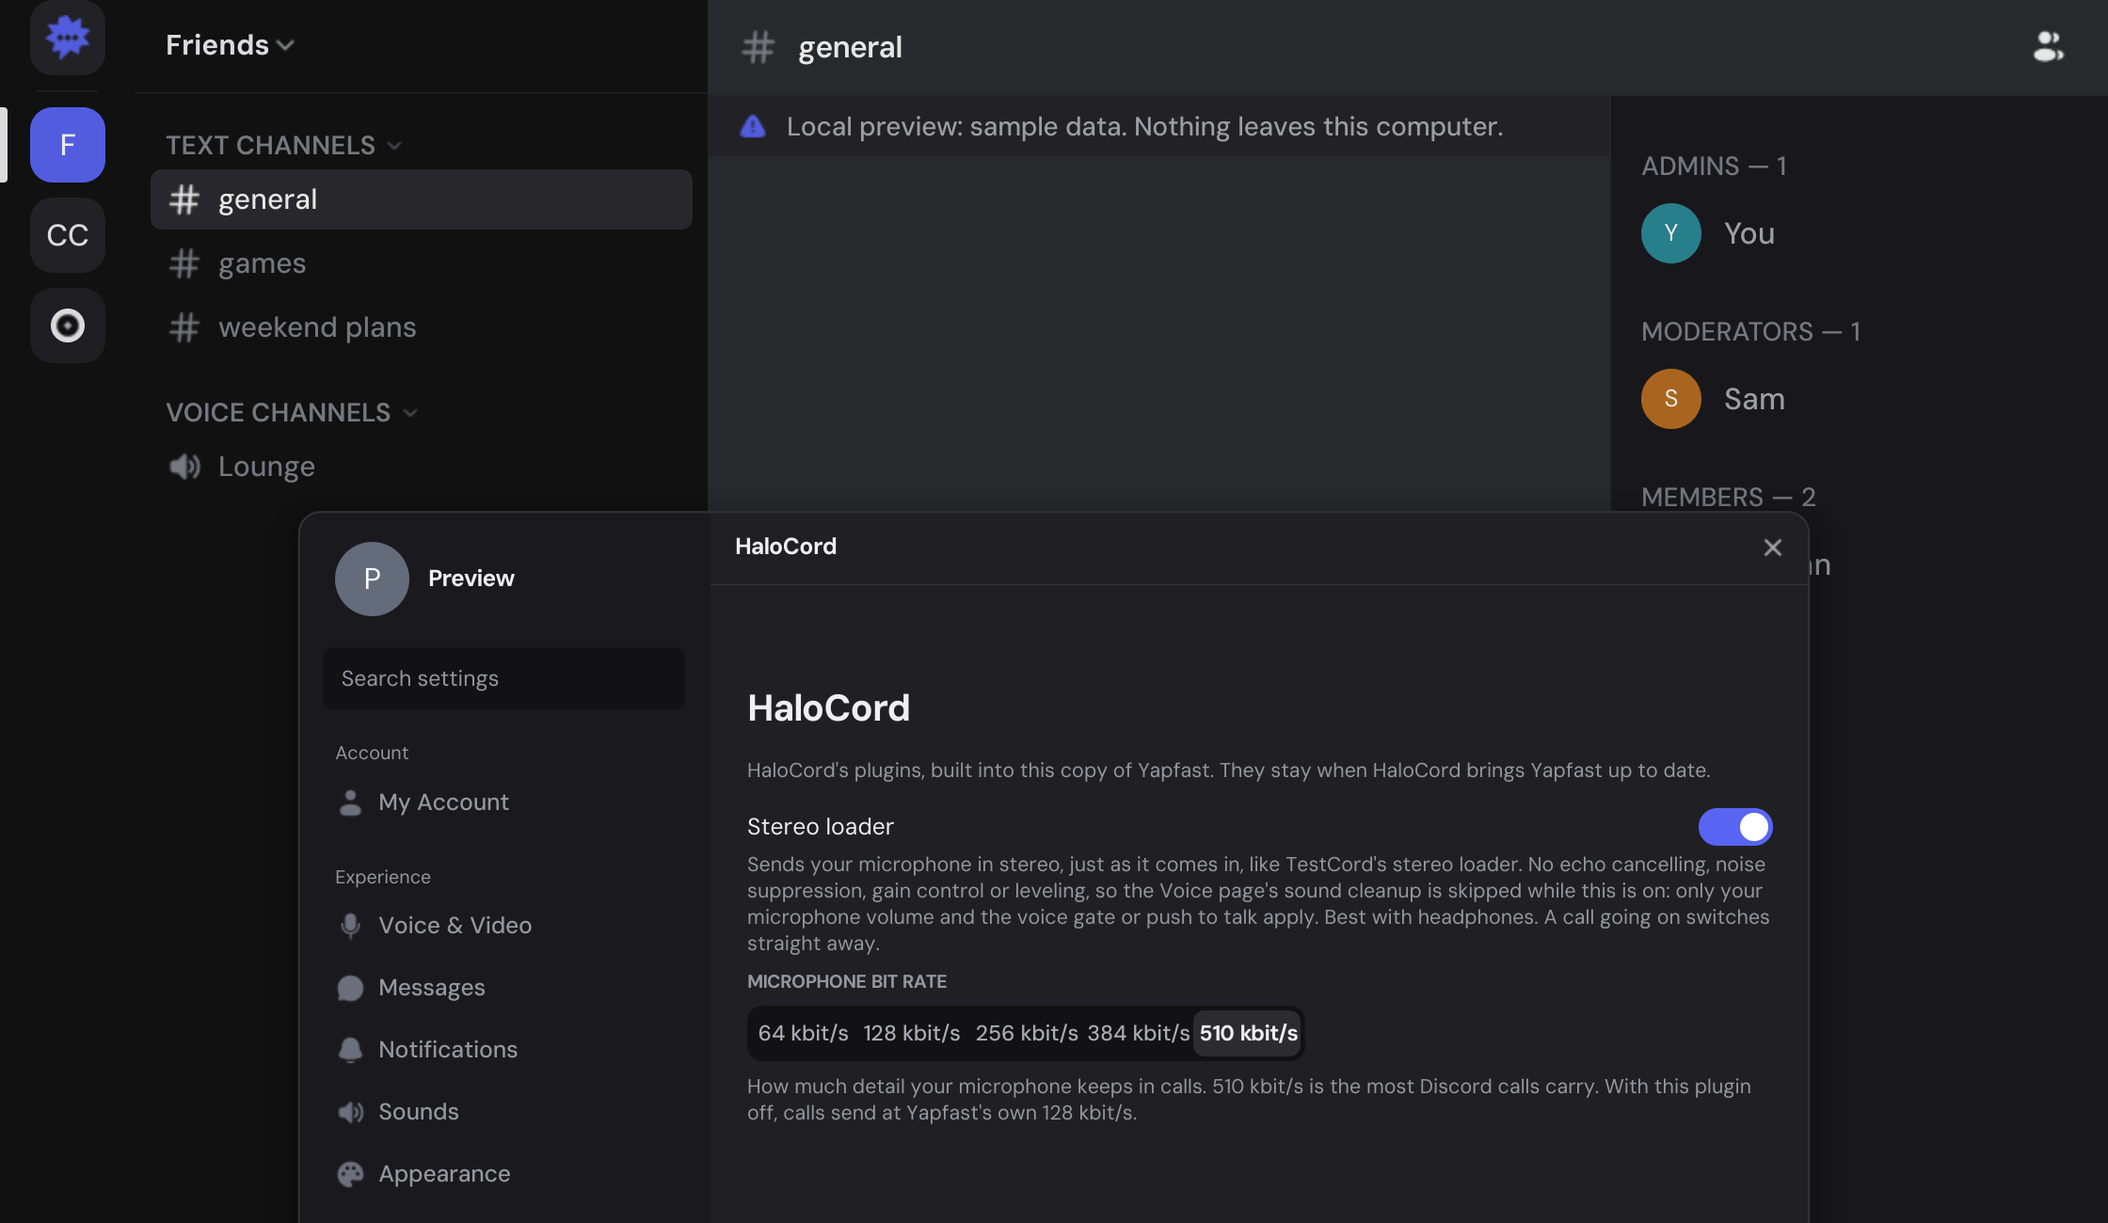
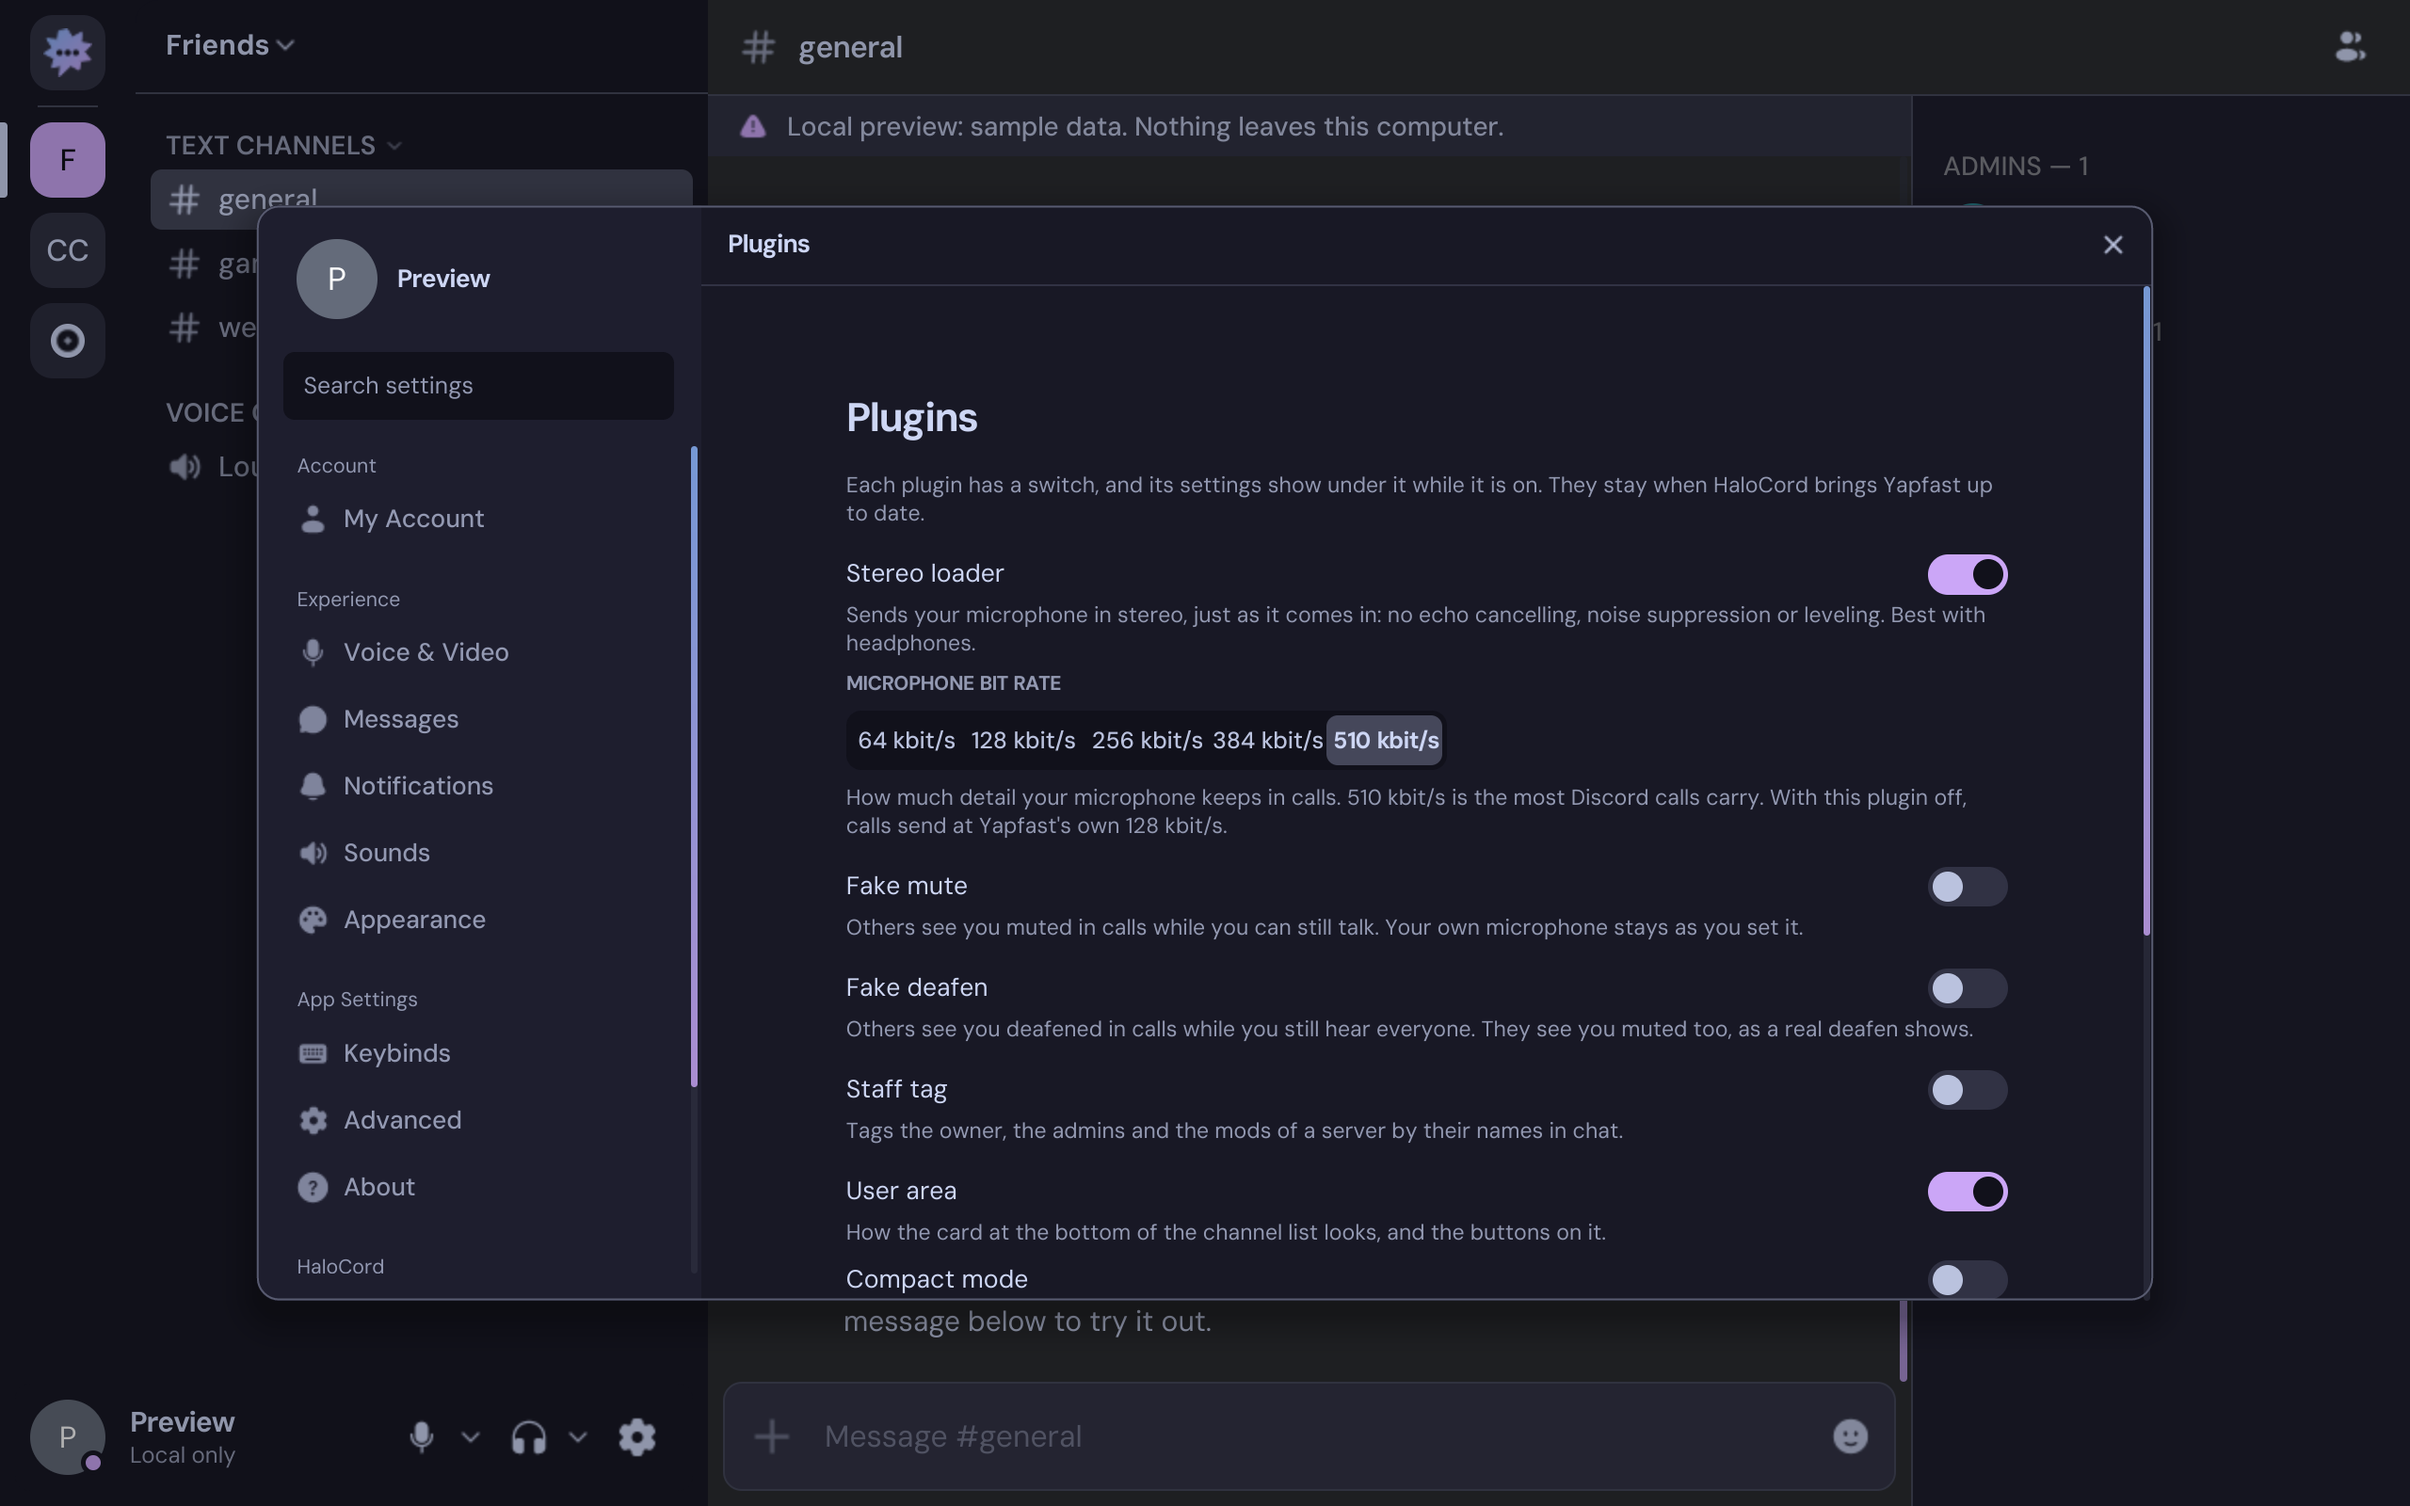
docs(halocord): README for the plugins, user area and MochaCord theme, new pictures

diff --git a/.github/README.md b/.github/README.md
@@ -1,12 +1,12 @@
 <div align="center">
 
-<img src="assets/halocord-page.png" alt="Yapfast settings with the HaloCord page open, showing the Stereo loader switch and the microphone bit rate picker" width="100%">
+<img src="assets/halocord-page.png" alt="Yapfast settings with the Plugins page open: the Stereo loader with its bit rate picker, fake mute, fake deafen, staff tag and the user area" width="100%">
 
 # HaloCord for Yapfast
 
 **HaloCord's voice plugins, built into Yapfast, the light Discord client written in Rust.**
 
-The next HaloCord: stereo microphone and 510 kbit/s calls, with its own settings page.
+The next HaloCord: stereo 510 kbit/s calls, fake mute and deafen, staff tags, a roomier user area and the MochaCord glass theme.
 
 <a href="https://github.com/DavidHiFi/HaloCord-Yapfast/releases/latest">
 <img src="https://img.shields.io/badge/%E2%AC%87%EF%B8%8F%20DOWNLOAD%20LATEST%20RELEASE-2EA043?style=for-the-badge&labelColor=161B22" alt="Download the latest release" height="42">
@@ -28,7 +28,7 @@ The next HaloCord: stereo microphone and 510 kbit/s calls, with its own settings
 2. Close Yapfast if it's open.
 3. Double-click `yapfast.exe`. The ZIP isn't code signed, so Windows SmartScreen may warn you. Choose **More info**, then **Run anyway**.
 4. New to Yapfast? Link your account with the QR code. Already use it? You stay logged in.
-5. Find **HaloCord** at the bottom of Settings.
+5. Find **Plugins** and **MochaCord** at the bottom of Settings.
 
 To build it yourself, see "Building from source" below.
 
@@ -40,15 +40,40 @@ To build it yourself, see "Building from source" below.
 - **Bit rate:** pick 64, 128, 256, 384 or 510 kbit/s. It changes live, mid-call.
 - **Off switch:** turn the plugin off and calls go back to Yapfast's own sound cleanup at 128 kbit/s.
 
+### Privacy
+
+- **Fake mute:** everyone in the call sees you muted while your microphone keeps working for you.
+- **Fake deafen:** everyone sees you deafened while you still hear the call.
+
+### Chat
+
+- **Staff tag:** owner, admin and mod tags next to names in chat, with an optional crown and role colour.
+
+### User area
+
+- **Compact mode:** a shorter user area that stays clear of the server list.
+- **Hide the arrows:** drops the little dropdown arrows beside mute and deafen.
+- **Extra buttons:** HaloCord's quick buttons, like fake mute and fake deafen, sit next to settings.
+
+### MochaCord theme
+
+<img src="assets/mochacord-page.png" alt="The MochaCord page in Yapfast settings: glass window, glass strength, blue to mauve accents, corner roundness and the font list" width="100%">
+
+- **Glass window:** Catppuccin Mocha over a frosted, blurred window, with a strength slider.
+- **Blue to mauve:** the accent and the scrollbars run from blue to mauve.
+- **Title bar room:** space above the home button for the native Windows title bar.
+- **Your font:** pick the font, weight and corner roundness. FiraCode Nerd Font Medium by default.
+- **New icon:** a riced app and home icon.
+
 ### Plugins
 
-- **HaloCord page:** its own section in Settings, one switch per plugin, with each plugin's settings under it.
+- **Plugins tab:** its own section in Settings, one switch per plugin, a search box, and each plugin's settings under it.
 - **Survives updates:** HaloCord's code lives in its own files, with small hooks into Yapfast, so it moves onto each new Yapfast release with little fuss.
 
 ## Notes
 
 > [!IMPORTANT]
-> **Early days.** This is the first plugin. On the way: the MochaCord theme with the glass window, fake mute and fake deafen, the staff tag, a compact user area, and an installer that patches your own Yapfast.
+> **Early days.** Every plugin here is new. If something looks off, turn that plugin off in the Plugins tab and open an issue.
 
 > [!NOTE]
 > **Replacing the old HaloCord.** The Electron-based [HaloCord](https://github.com/DavidHiFi/HaloCord) is retired. This repo is where HaloCord carries on.
